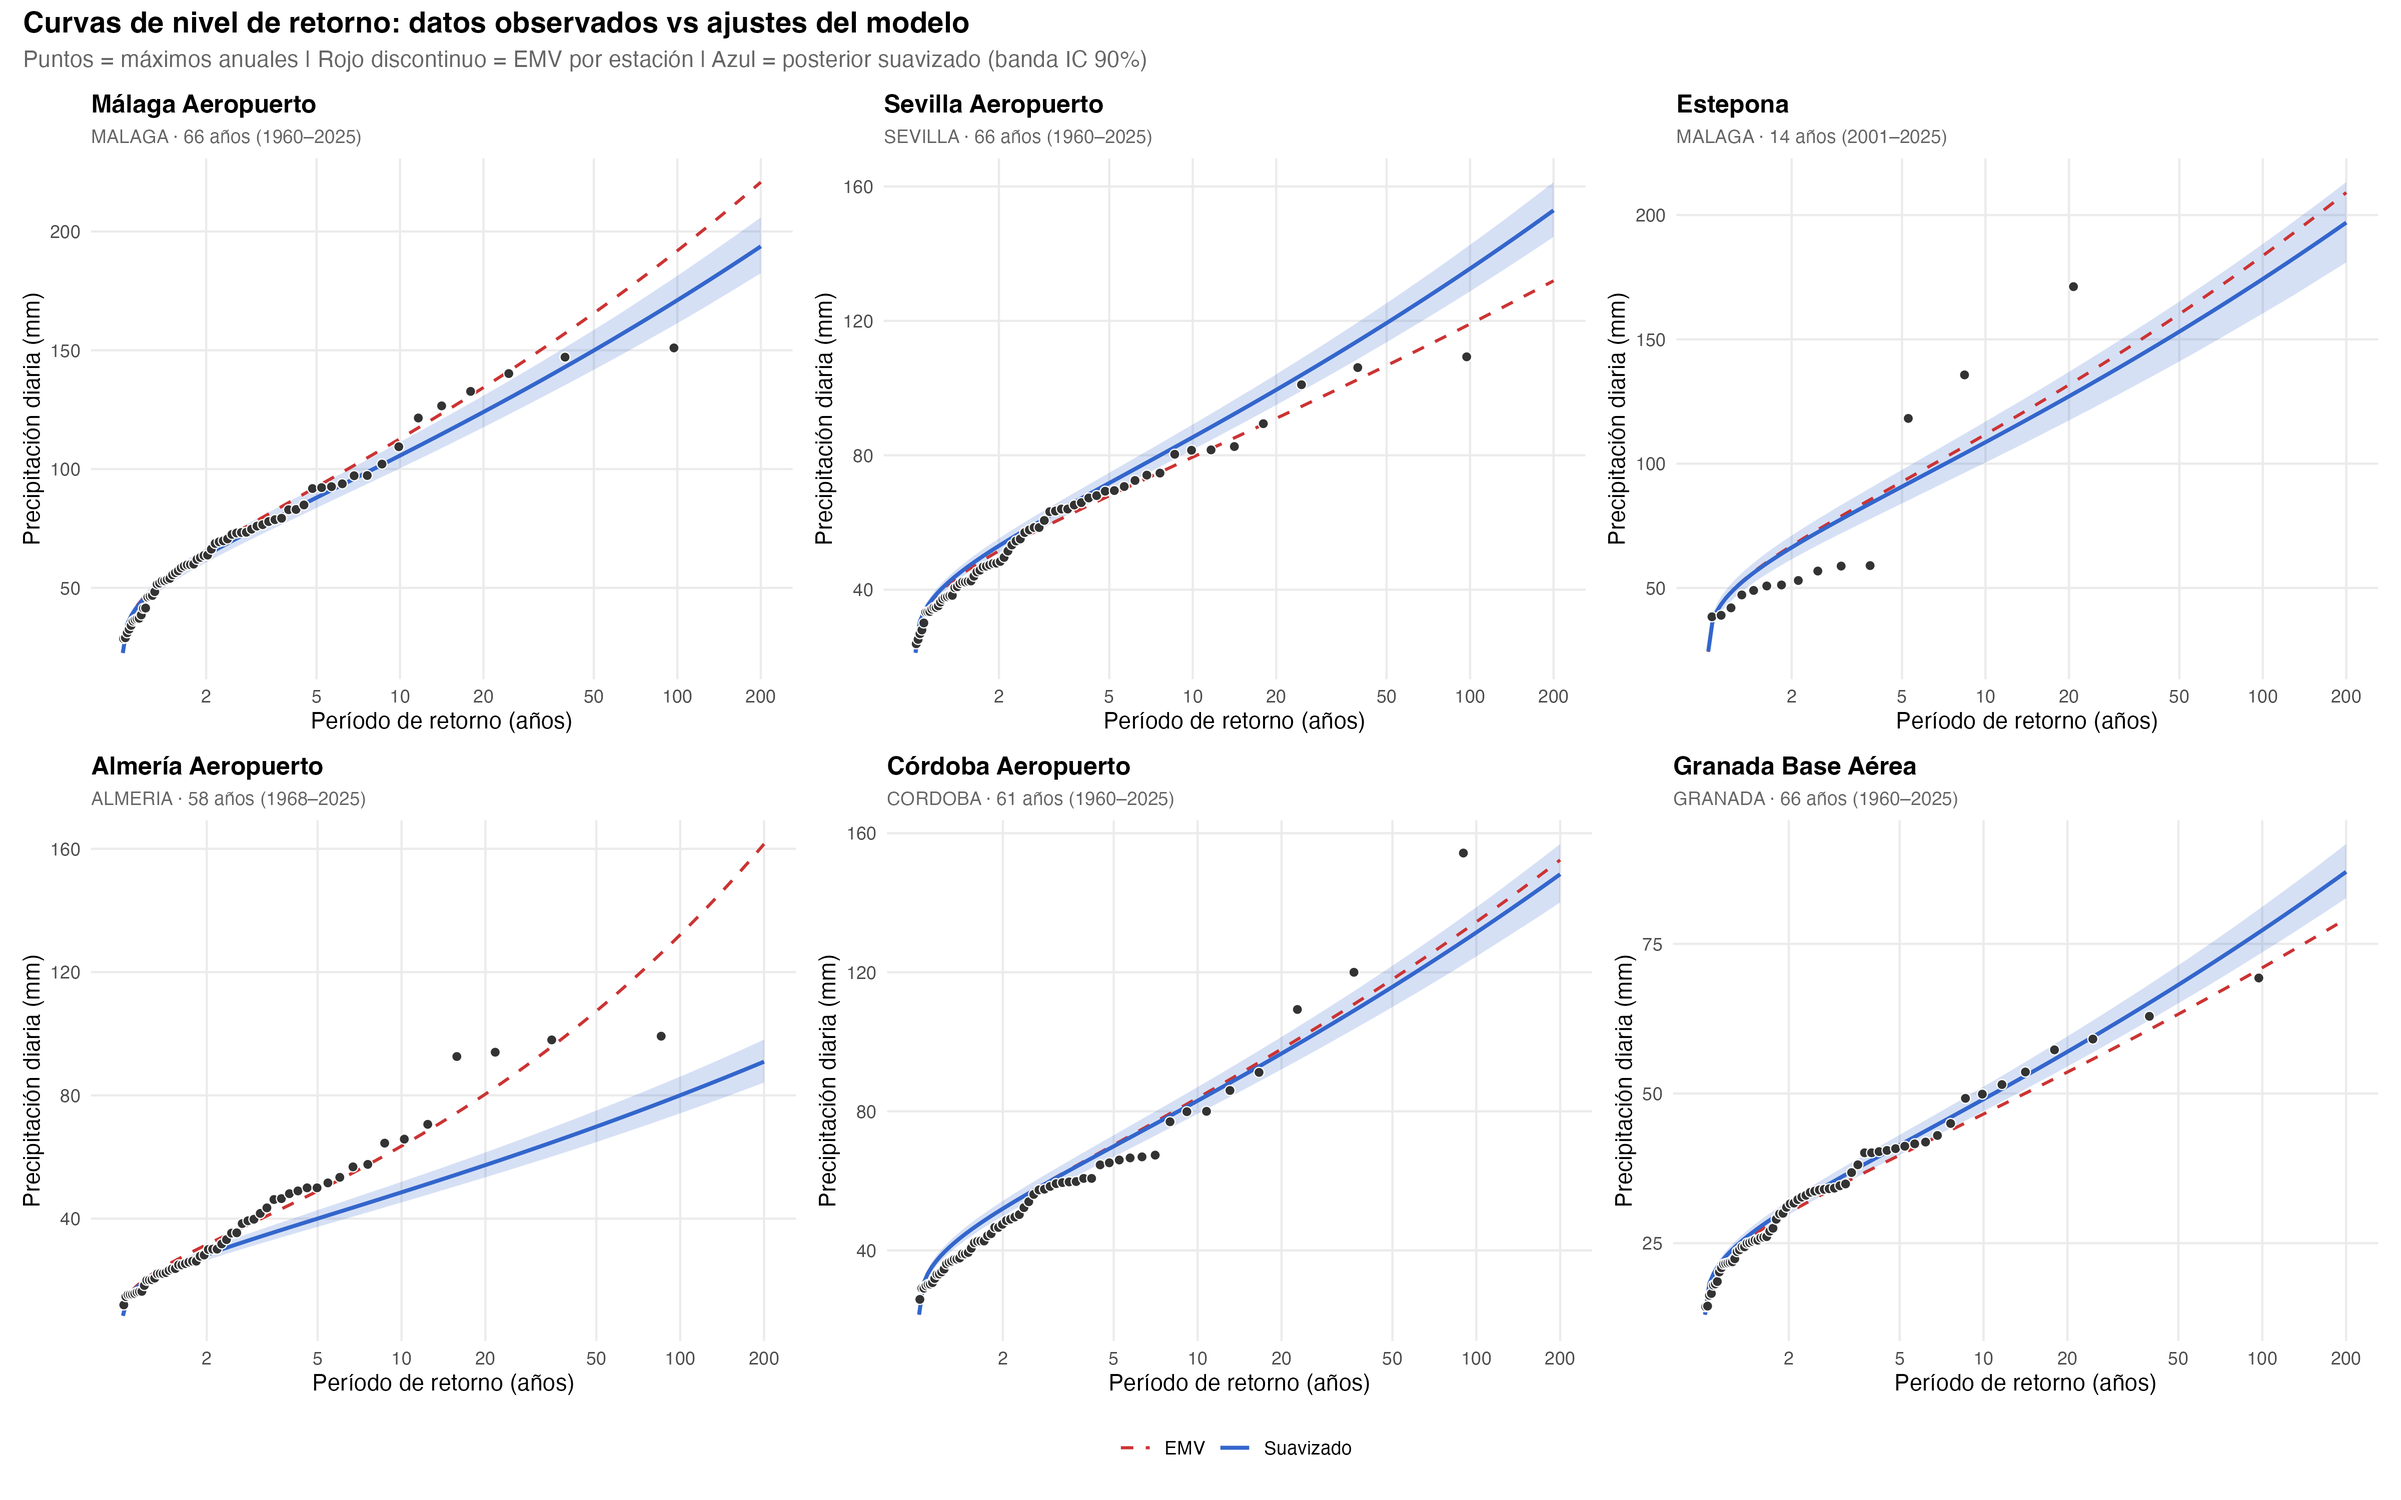
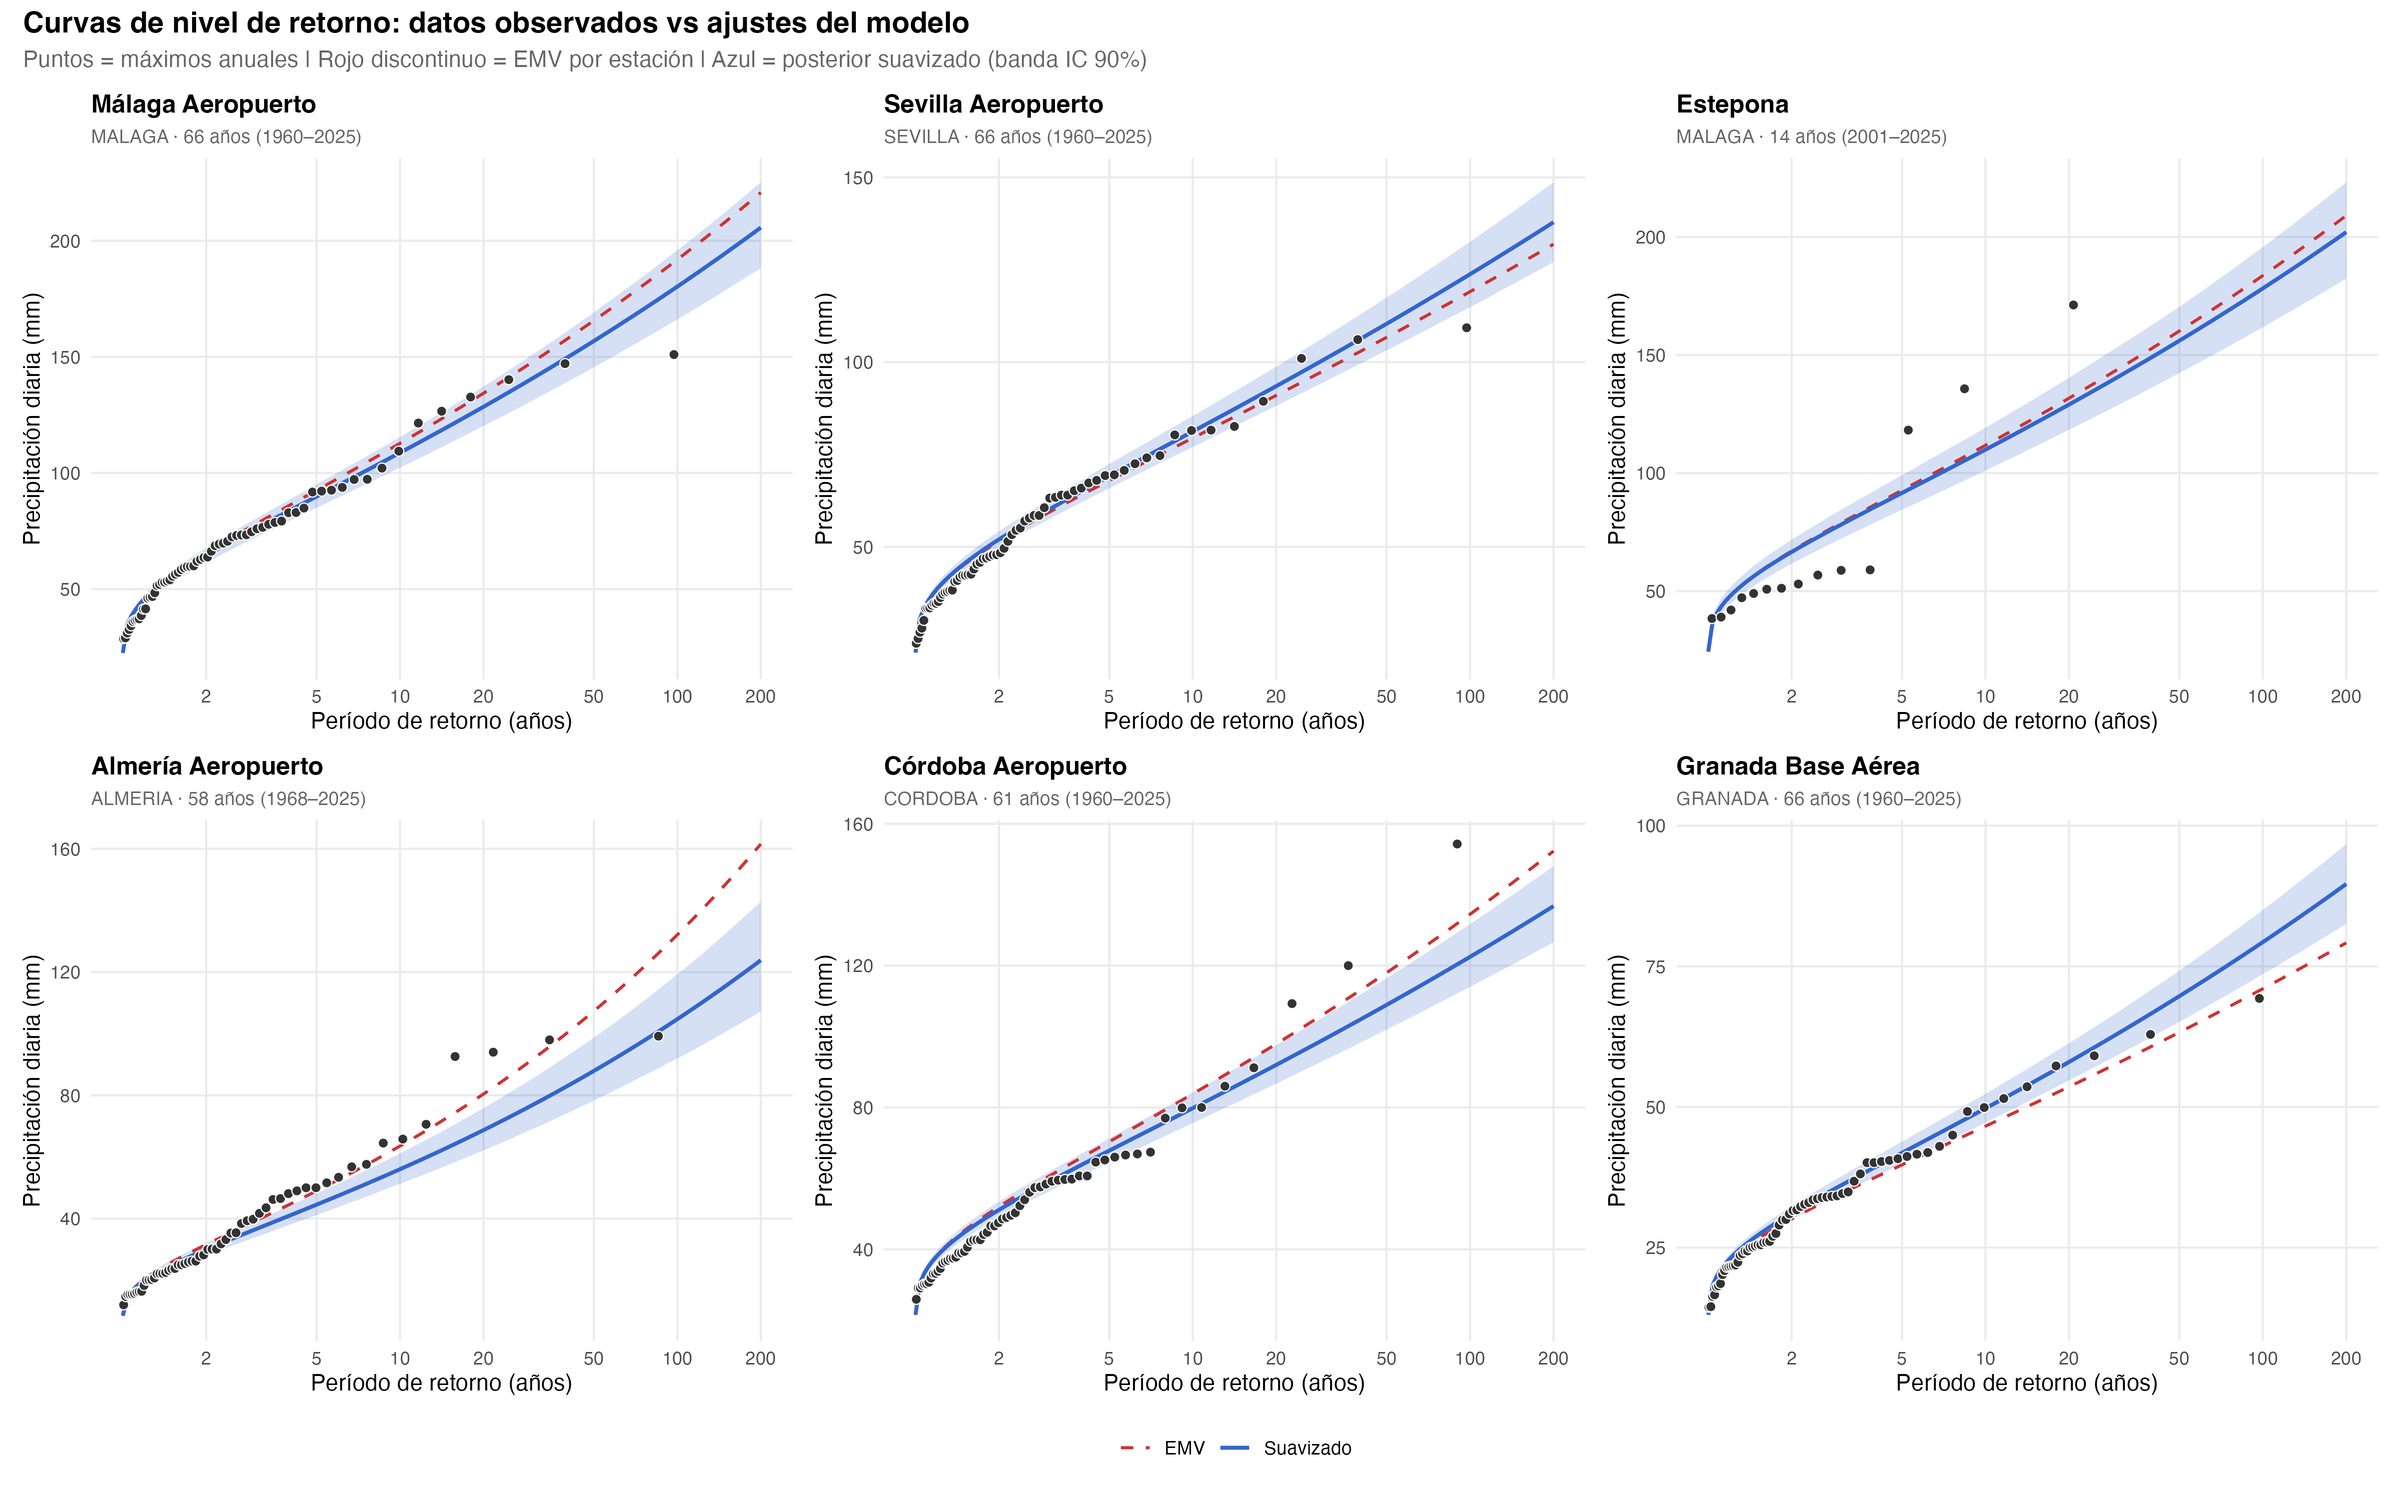
Restore spatial GP on shape parameter with tighter PC priors
The iid-only model for φ (shape) over-shrunk all stations toward a
common mean (ξ ≈ 0.10), missing the east–west gradient driven by
Mediterranean convective precipitation. Restoring the Matérn(5/2) GP
on φ with tighter PC priors (σ: λ=10, ρ: λ=1.5, nugget: λ=10)
captures this spatial structure while keeping the posterior well-behaved
(σ̂=0.09, ρ̂=3.0°, 43 divergences across 4000 draws).

- Stan model: n_gp=3, all parameters get GPs
- R scripts: conditional GP prediction for φ at grid locations
- READMEs: updated model description and PC prior tables
- All figures regenerated (English + Spanish)

diff --git a/README.md b/README.md
@@ -51,9 +51,9 @@ The Stage 1 estimates $\hat{\eta}_i = (\hat{\psi}_i, \hat{\tau}_i, \hat{\phi}_i)
 
 $$\eta_\psi(s) = \mathbf{x}(s)^\top \boldsymbol{\beta}_\psi + f_\psi(s)$$
 $$\eta_\tau(s) = \mu_\tau + f_\tau(s)$$
-$$\eta_\phi(s) = \mu_\phi + \nu_\phi \, z(s), \quad z(s) \sim \mathcal{N}(0, 1)$$
+$$\eta_\phi(s) = \mu_\phi + f_\phi(s)$$
 
-The **location parameter** $\psi$ includes covariates and a spatial GP; the **scale ratio** $\tau$ has an intercept and spatial GP; the **shape parameter** $\phi$ has only an intercept plus independent (iid) noise, reflecting the negligible spatial structure observed in empirical variograms of $\hat{\phi}$.
+The **location parameter** $\psi$ includes covariates and a spatial GP; the **scale ratio** $\tau$ has an intercept and spatial GP; the **shape parameter** $\phi$ has an intercept and spatial GP with tighter PC priors reflecting the smaller spatial variation in the shape parameter.
 
 #### Covariates on location ($\psi$)
 
@@ -69,7 +69,7 @@ Altitude and exposure are standardised to zero mean and unit variance at the sta
 
 #### Matérn(5/2) Gaussian process
 
-The spatial random effects $f_\psi$ and $f_\tau$ each receive an independent Matérn(5/2) GP prior:
+The spatial random effects $f_\psi$, $f_\tau$, and $f_\phi$ each receive an independent Matérn(5/2) GP prior:
 
 $$C_k(d) = \sigma_k^2 \left(1 + \frac{\sqrt{5} d}{\rho_k} + \frac{5 d^2}{3 \rho_k^2}\right) \exp\left(-\frac{\sqrt{5} d}{\rho_k}\right)$$
 
@@ -85,19 +85,19 @@ which decouples the computationally expensive per-station PPP fits from the spat
 
 #### Non-centered parameterisation
 
-To improve HMC sampling efficiency, the GP is parameterised as $\eta_k = \mu_k + L_k z_k$, where $L_k$ is the Cholesky factor of the covariance matrix and $z_k \sim \mathcal{N}(0, I)$. The shape parameter uses an analogous non-centered form: $\eta_\phi = \mu_\phi + \nu_\phi z$ with $z \sim \mathcal{N}(0, I)$.
+To improve HMC sampling efficiency, all three GPs are parameterised as $\eta_k = \mu_k + L_k z_k$, where $L_k$ is the Cholesky factor of the covariance matrix and $z_k \sim \mathcal{N}(0, I)$.
 
 #### Penalised complexity priors
 
-Following Fuglstad et al. (2019), the GP hyperparameters for $\psi$ and $\tau$ receive PC priors calibrated as:
+Following Fuglstad et al. (2019), the GP hyperparameters receive PC priors. The $\psi$ and $\tau$ GPs share one calibration; the $\phi$ GP receives tighter priors reflecting the smaller spatial variation in the shape parameter:
 
-| Parameter | Prior | Calibration |
-|-----------|-------|-------------|
-| $\sigma_k$ (marginal SD) | Exponential | $P(\sigma > 1) = 0.05 \Rightarrow \lambda_\sigma = 3.0$ |
-| $\rho_k$ (range) | PC prior on range | $P(\rho < 0.1°) = 0.05 \Rightarrow \lambda_\rho = 0.30$ |
-| $\nu_k$ (nugget SD) | Exponential | $P(\nu > 0.5) = 0.05 \Rightarrow \lambda_\nu = 6.0$ |
+| Parameter | $\psi$, $\tau$ | $\phi$ |
+|-----------|----------------|--------|
+| $\sigma_k$ (marginal SD) | $P(\sigma > 1) = 0.05 \Rightarrow \lambda_\sigma = 3.0$ | $P(\sigma > 0.3) = 0.05 \Rightarrow \lambda_\sigma = 10.0$ |
+| $\rho_k$ (range) | $P(\rho < 0.1°) = 0.05 \Rightarrow \lambda_\rho = 0.30$ | $P(\rho < 0.5°) = 0.05 \Rightarrow \lambda_\rho = 1.50$ |
+| $\nu_k$ (nugget SD) | $P(\nu > 0.5) = 0.05 \Rightarrow \lambda_\nu = 6.0$ | $P(\nu > 0.3) = 0.05 \Rightarrow \lambda_\nu = 10.0$ |
 
-The iid noise standard deviation for $\phi$ receives the same exponential prior: $P(\nu_\phi > 0.5) = 0.05$. Covariate coefficients $\boldsymbol{\beta}_\psi$ receive vague priors $\mathcal{N}(0, 10^2)$; the intercepts $\mu_\tau$ and $\mu_\phi$ receive $\mathcal{N}(0, 100^2)$. The model is fitted jointly in Stan (Carpenter et al., 2017) using NUTS with 4 chains × 1000 iterations (1000 warmup), `adapt_delta = 0.9`.
+Covariate coefficients $\boldsymbol{\beta}_\psi$ receive vague priors $\mathcal{N}(0, 10^2)$; the intercepts $\mu_\tau$ and $\mu_\phi$ receive $\mathcal{N}(0, 100^2)$. The model is fitted jointly in Stan (Carpenter et al., 2017) using NUTS with 4 chains × 1000 iterations (1000 warmup), `adapt_delta = 0.9`.
 
 ### Prediction
 
@@ -129,7 +129,7 @@ with $\boldsymbol{\gamma}_k$ the cross-covariance vector between $s^*$ and the s
 
 #### Shape parameter ($\phi$)
 
-Since $\phi$ has no spatial GP, predictions at new locations are drawn from the intercept plus iid noise: $\eta_\phi(s^*) = \mu_\phi + \nu_\phi \, z$, $z \sim \mathcal{N}(0, 1)$, independently at each grid point.
+The shape parameter $\phi$ receives the same conditional GP prediction as $\psi$ and $\tau$, using the $\phi$-specific GP hyperparameters $(\sigma_\phi, \rho_\phi, \nu_\phi)$. This preserves the observed east-west gradient in the GEV shape parameter, which reflects heavier-tailed Mediterranean convective precipitation in eastern Andalucía.
 
 #### Grid
 

diff --git a/README.es.md b/README.es.md
@@ -71,15 +71,15 @@ Para mejorar la eficiencia del muestreo HMC, el GP se parametriza como $\eta_k =
 
 #### Priors de complejidad penalizada
 
-Siguiendo a Fuglstad et al. (2019), los hiperparámetros del GP reciben priors PC calibrados como:
+Siguiendo a Fuglstad et al. (2019), los hiperparámetros del GP reciben priors PC. Los GPs de $\psi$ y $\tau$ comparten una calibración; el GP de $\phi$ recibe priors más estrictos que reflejan la menor variación espacial del parámetro de forma:
 
-| Parámetro | Prior | Calibración |
-|-----------|-------|-------------|
-| $\sigma_k$ (DE marginal) | Exponencial | $P(\sigma > 1) = 0.05 \Rightarrow \lambda_\sigma = 3.0$ |
-| $\rho_k$ (rango) | Prior PC sobre rango | $P(\rho < 0.1°) = 0.05 \Rightarrow \lambda_\rho = 0.30$ |
-| $\nu_k$ (DE nugget) | Exponencial | $P(\nu > 0.5) = 0.05 \Rightarrow \lambda_\nu = 6.0$ |
+| Parámetro | $\psi$, $\tau$ | $\phi$ |
+|-----------|----------------|--------|
+| $\sigma_k$ (DE marginal) | $P(\sigma > 1) = 0.05 \Rightarrow \lambda_\sigma = 3.0$ | $P(\sigma > 0.3) = 0.05 \Rightarrow \lambda_\sigma = 10.0$ |
+| $\rho_k$ (rango) | $P(\rho < 0.1°) = 0.05 \Rightarrow \lambda_\rho = 0.30$ | $P(\rho < 0.5°) = 0.05 \Rightarrow \lambda_\rho = 1.50$ |
+| $\nu_k$ (DE nugget) | $P(\nu > 0.5) = 0.05 \Rightarrow \lambda_\nu = 6.0$ | $P(\nu > 0.3) = 0.05 \Rightarrow \lambda_\nu = 10.0$ |
 
-Los interceptos reciben priors vagos: $\mu_k \sim \mathcal{N}(0, 100^2)$. El modelo se ajusta conjuntamente en Stan (Carpenter et al., 2017) usando NUTS con 4 cadenas × 2000 iteraciones (1000 calentamiento), `adapt_delta = 0.9`.
+Los coeficientes de covariables $\boldsymbol{\beta}_\psi$ reciben priors vagos $\mathcal{N}(0, 10^2)$; los interceptos $\mu_\tau$ y $\mu_\phi$ reciben $\mathcal{N}(0, 100^2)$. El modelo se ajusta conjuntamente en Stan (Carpenter et al., 2017) usando NUTS con 4 cadenas × 2000 iteraciones (1000 calentamiento), `adapt_delta = 0.9`.
 
 ### Predicción
 
@@ -91,13 +91,13 @@ donde
 
 $$\mu_{\text{cond}} = \mu_k + \gamma_k^\top \Sigma_k^{-1} (\eta_k - \mu_k), \qquad \sigma^2_{\text{cond}} = \sigma_k^2 - \gamma_k^\top \Sigma_k^{-1} \gamma_k$$
 
-con $\gamma_k$ el vector de covarianza cruzada entre $s^*$ y las estaciones, y $\Sigma_k$ la matriz de covarianza estación-estación (incluyendo nugget). Para cada muestra a posteriori del campo latente $\eta_k$, se **muestrea** una predicción de esta distribución condicional, por lo que la incertidumbre de interpolación $\sigma^2_{\text{cond}}$ se propaga completamente a los niveles de retorno predictivos a posteriori. Las predicciones se calculan en una malla de 0.025° sobre Andalucía.
+con $\gamma_k$ el vector de covarianza cruzada entre $s^*$ y las estaciones, y $\Sigma_k$ la matriz de covarianza estación-estación (incluyendo nugget). Para cada muestra a posteriori del campo latente $\eta_k$, se **muestrea** una predicción de esta distribución condicional, por lo que la incertidumbre de interpolación $\sigma^2_{\text{cond}}$ se propaga completamente a los niveles de retorno predictivos a posteriori. Las predicciones se calculan en una malla de 0.005° (~500 m) sobre Andalucía.
 
 ## Resultados
 
 ### Mapas de niveles de retorno
 
-Media a posteriori de los niveles de retorno para *T* = 10, 20, 50 y 100 años, interpolados sobre Andalucía en una malla de 0.025°. Las líneas de contorno blancas marcan los umbrales de alarma AEMET (80 y 120 mm).
+Media a posteriori de los niveles de retorno para *T* = 10, 20, 50 y 100 años, interpolados sobre Andalucía en una malla de 0.005° (~500 m).
 
 ![Mapas de niveles de retorno](figures/es/return_level_maps.png)
 
